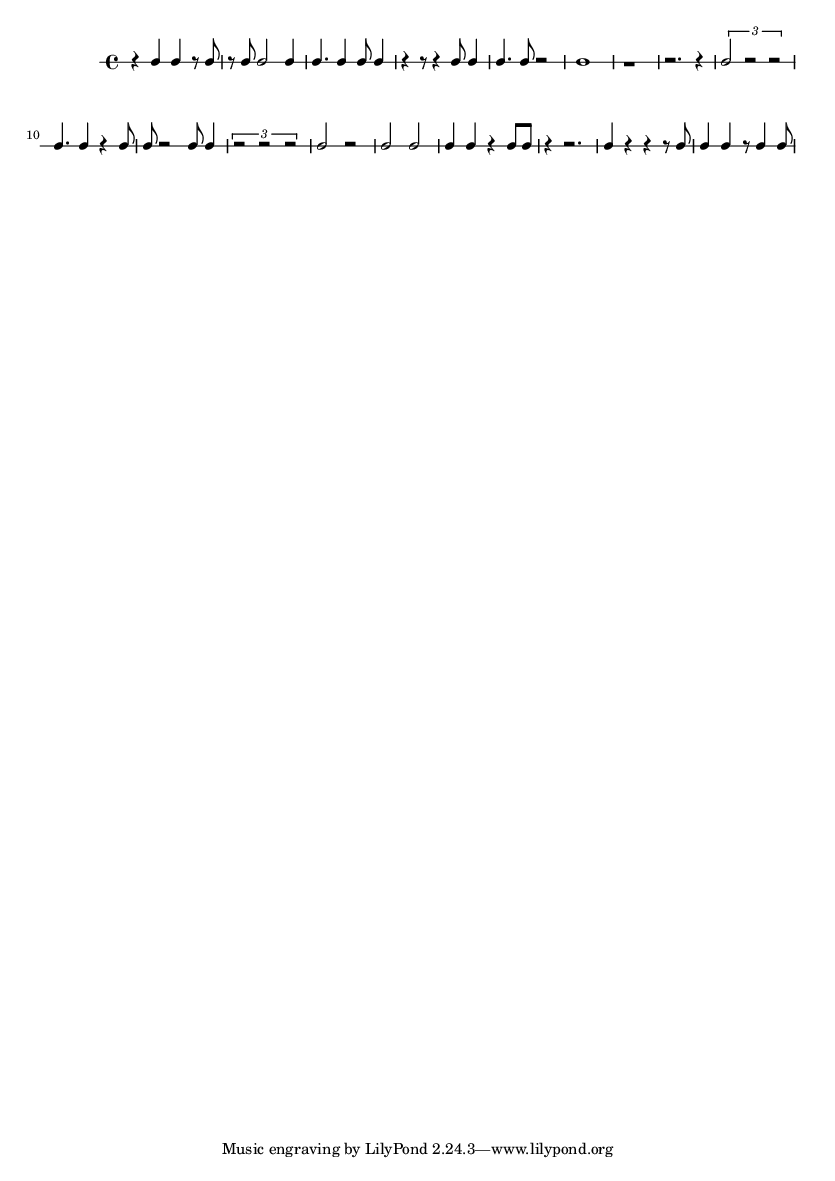
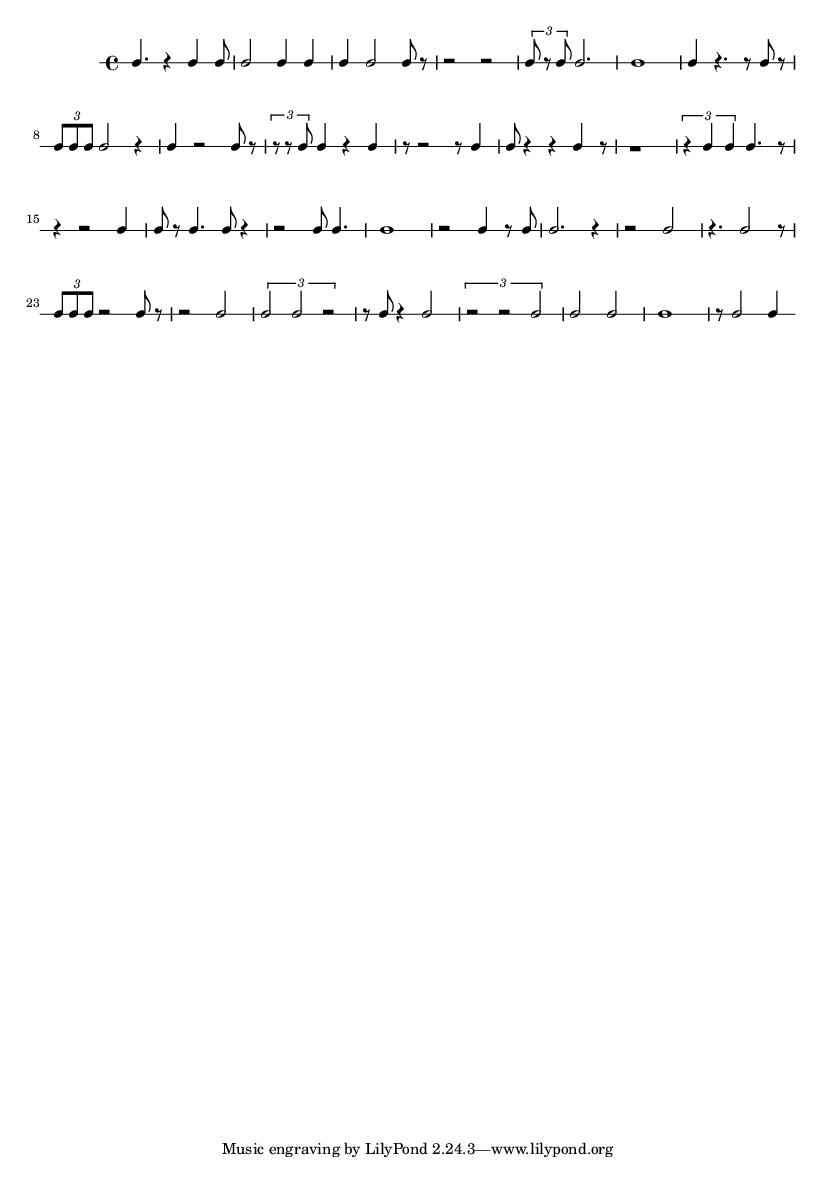
Tweaking note generation algorithm

diff --git a/rhythm.py b/rhythm.py
@@ -164,6 +164,7 @@ def get_difficulty_level():
                 "...\n"
                 "7+ : Adds sixteenth notes.\n"
                 ">7 : More complex rhythms.\n"
+                "For melodic components, in addition to the previous conditions, a higher difficulty will increase the note range and maximum jump.\n"
                 "Enter difficulty level: "))
 
             if difficulty_level >= 1:
@@ -195,6 +196,8 @@ for i, current_state in enumerate(states):
                     transition_matrix[i][j] = difficulty_divisors[8]
                 else: 
                     transition_matrix[i][j] = 0
+                if "Rest" in next_state: transition_matrix[i][j]/10 #make rests occur less frequently
+
             elif "Dotted" in next_state:
                     if "Whole" in next_state: transition_matrix[i][j] = difficulty_tiers[4] if difficulty_level >= difficulty_divisors[4] else 0
                     elif "Half" in next_state: transition_matrix[i][j] = difficulty_tiers[4] if difficulty_level>=difficulty_divisors[4] else 0
@@ -202,6 +205,8 @@ for i, current_state in enumerate(states):
                     elif "Eighth" in next_state: transition_matrix[i][j] = difficulty_tiers[9] if difficulty_level>=difficulty_divisors[9] else 0
                     elif "Sixteenth" in next_state: transition_matrix[i][j] = 0 #needs to be a null event because nothing can always fill the remaining beats after a dotted 16th unless subdividing more with 32nds, etc.
                     else: transition_matrix[i][j] = 0
+                    if "Rest" in next_state: transition_matrix[i][j]/10 #make rests occur less frequently
+
             else:
                     if "Whole" in next_state: transition_matrix[i][j] = difficulty_tiers[1] if difficulty_level>=difficulty_divisors[1] else 0
                     elif "Half" in next_state: transition_matrix[i][j] = difficulty_tiers[1] if difficulty_level>=difficulty_divisors[1] else 0
@@ -209,6 +214,7 @@ for i, current_state in enumerate(states):
                     elif "Eighth" in next_state: transition_matrix[i][j] = difficulty_tiers[2] if difficulty_level>=difficulty_divisors[2] else 0
                     elif "Sixteenth" in next_state: transition_matrix[i][j] = difficulty_tiers[7] if difficulty_level>=difficulty_divisors[7] else 0
                     else: transition_matrix[i][j] = 0
+                    if "Rest" in next_state: transition_matrix[i][j]/10 #make rests occur less frequently
 #'''
 # Normalize the matrix
 for i in range(num_states):
@@ -309,11 +315,11 @@ for i in range(num_states):
 def get_number_of_notes():
     while True:
         try:
-            num_notes = int(input("Enter the number of notes (must be a positive integer greater than 1): "))
-            if num_notes > 1:
+            num_notes = int(input("Enter the number of notes (must be a positive integer no less than 1): "))
+            if num_notes >= 1:
                 return num_notes
             else:
-                print("The number must be greater than 1. Please try again.")
+                print("The number must be no less than 1. Please try again.")
         except ValueError:
             print("Invalid input. Please enter a positive integer.")
 

diff --git a/pitch.py b/pitch.py
@@ -2,7 +2,7 @@ from rhythm import return_for_pitch_generation
 import numpy as np
 import random
 
-# Call the function
+# Fetch rhythm work
 lilypond_rhythm_string, time_signature, difficulty_level = return_for_pitch_generation()
 
 # Now you can use the lilypond_rhythm_string and time_signature
@@ -11,14 +11,17 @@ print(time_signature)
 
 notes = [1, 1.5, 2, 2.5, 3, 4, 4.5, 5, 5.5, 6, 6.5, 7] #notes in the scale are integers, accidentals are x.5
 notes_per_octave = len(notes)
-starting_note = 2
-num_notes = difficulty_level*3 # or a user controlled value
+lower_note_bound = 1 #lower bound of range
+
+if round(difficulty_level*2.6,1) > 2.1*notes_per_octave: num_notes = 2.1*notes_per_octave
+else: num_notes = round(difficulty_level*2.6,1) # or a user controlled value. a consequence of this value is the upper bound for the range
+
 if difficulty_level*2 > notes[-1]-notes[0]: max_jump = notes[-1]-notes[0]
 else: max_jump = difficulty_level*2
 
-def generate_possible_notes_in_range(notes, starting_note, num_notes):
+def generate_possible_notes_in_range(notes, lower_note_bound, num_notes):
     generated_notes = []
-    start_index = notes.index(starting_note)
+    start_index = notes.index(lower_note_bound)
 
     octave = 0
 
@@ -33,7 +36,7 @@ def generate_possible_notes_in_range(notes, starting_note, num_notes):
 
     return generated_notes
 
-notes_in_range = generate_possible_notes_in_range(notes, starting_note, num_notes)
+notes_in_range = generate_possible_notes_in_range(notes, lower_note_bound, num_notes)
 
 # Initialize the transition matrix
 num_states = len(notes_in_range)
@@ -47,9 +50,9 @@ for i in range(num_states):
             if note_diff == 0:
                 transition_matrix[i][j] = 1 / difficulty_level
             else:
-                transition_matrix[i][j] = 1 / note_diff
+                transition_matrix[i][j] = 1 / (note_diff**1.3) #encouraging notes to be in close proximity to each other
                 if not notes_in_range[j].is_integer():
-                    transition_matrix[i][j] /= 5
+                    transition_matrix[i][j] /= 5 #reducing frequency of accidentals
 
 # Normalize the rows of the matrix
 for i in range(num_states):
